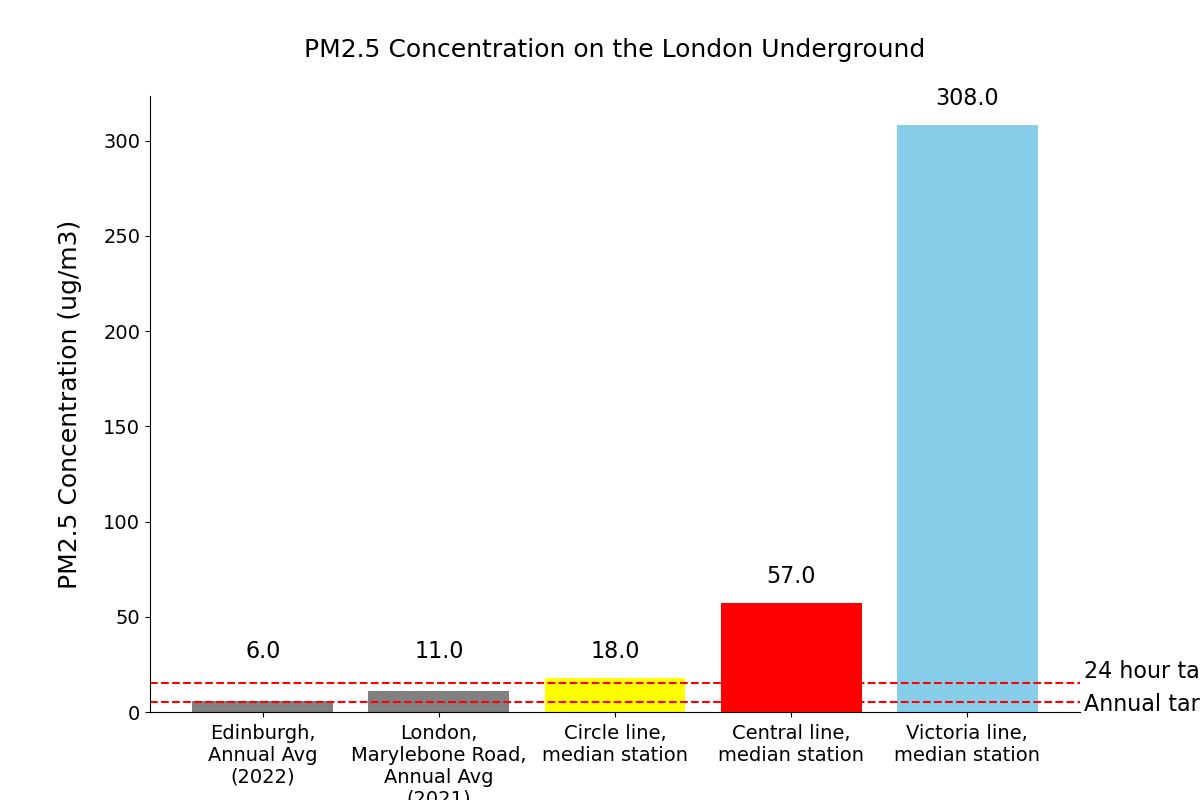
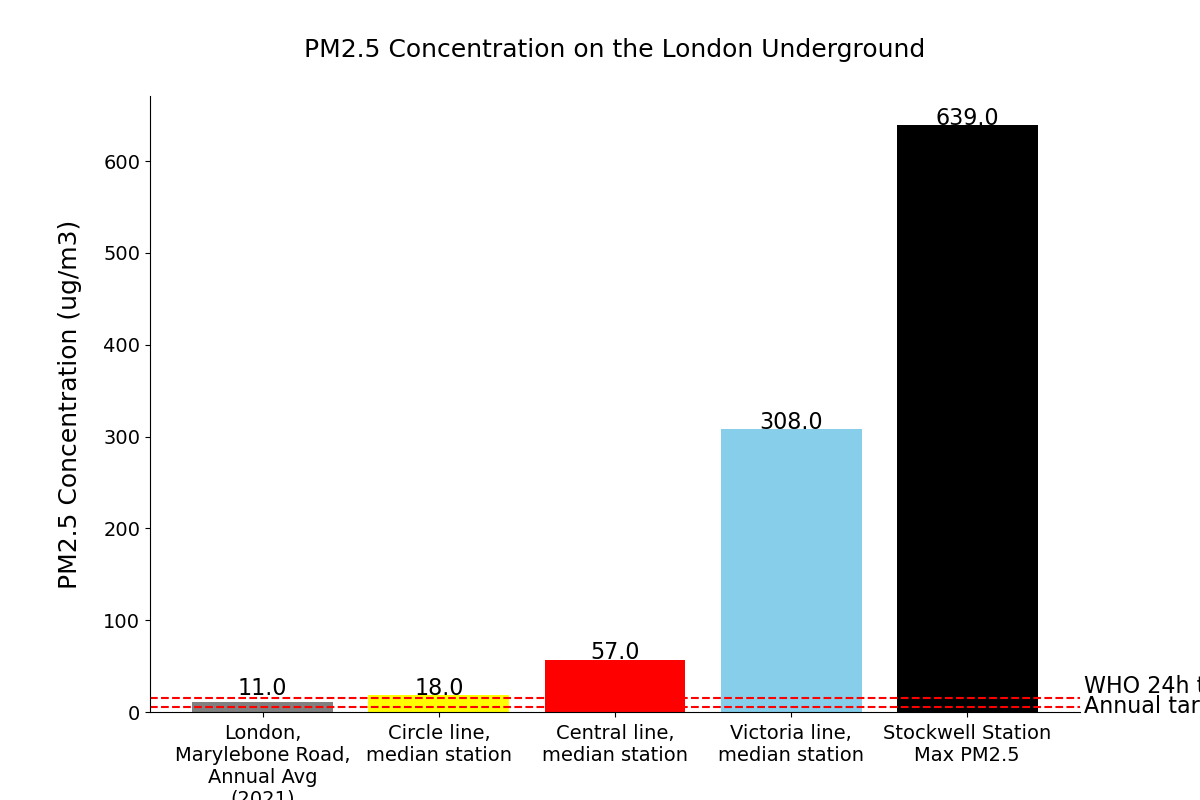
Changing ambient pm2.5 and minor cleaning up

diff --git a/images/plotter.py b/images/plotter.py
@@ -4,7 +4,7 @@ import matplotlib.pyplot as plt
 
 markers = {
     "Annual target": 5,  # https://www.who.int/news-room/feature-stories/detail/what-are-the-who-air-quality-guidelines
-    "24 hour target": 15,  # https://www.who.int/news-room/feature-stories/detail/what-are-the-who-air-quality-guidelines
+    "WHO 24h target": 15,  # https://www.who.int/news-room/feature-stories/detail/what-are-the-who-air-quality-guidelines
 }
 
 legend = ["WHO 2021 limits"]
@@ -24,8 +24,8 @@ station_medians = {
     "Central line,\nmedian station": (57.00, "red"),
     # "Hammersmith & City": (22.00, "pink"),
     "London,\nMarylebone Road,\nAnnual Avg\n(2021)": (11, "gray"),  # https://www.westminster.gov.uk/media/document/air-quality-report-2021
-    "Edinburgh,\nAnnual Avg\n(2022)": (6, "gray"),  # https://www.statista.com/statistics/1299076/pm25-emissions-selected-cities-in-united-kingdom/
-    # "Stockwell Station\nMax PM2.5": (639, "black"),
+    # "Edinburgh,\nAnnual Avg\n(2022)": (6, "gray"),  # https://www.statista.com/statistics/1299076/pm25-emissions-selected-cities-in-united-kingdom/
+    "Stockwell Station\nMax PM2.5": (639, "black"),
 }
 
 tube = {
@@ -116,7 +116,7 @@ def plot_bars():
         plt.axhline(y=marker_value, color='red', linestyle='--')
         plt.text(
             bars[-1].get_x() + bars[1].get_x() * 1.1 - bars[0].get_x(),
-            marker_value + (7 * -1 if i == 0 else 0),
+            marker_value + (11 * -1 if i == 0 else 0),
             f'{marker_label}',
             verticalalignment='bottom',
             fontsize=16,
@@ -153,5 +153,5 @@ def plot_bars():
     plt.show()
 
 if __name__ == "__main__":
-    # plot_bars()
-    pie_charts()
+    plot_bars()
+    # pie_charts()

diff --git a/api/convert.py b/api/convert.py
@@ -18,9 +18,7 @@ URBAN_BACKGROUND_ITEM_KEY = "Ambient Background"
 
 # All units in microgrammes per m3
 # Source [1]: https://www.sciencedirect.com/science/article/pii/S0160412019313649?via%3Dihub
-
-# TODO use the actual data instead of Options! From api.tube_map import Map
-#  Get every tube stop passed through, and average the data
+# Source [2]: TODO - this was from london air quality monitoring over the last year.
 
 AMBIENT_DATA = {
     AVERAGE_TUBE_ITEM_KEY: {
@@ -30,8 +28,8 @@ AMBIENT_DATA = {
     },
     URBAN_BACKGROUND_ITEM_KEY: {
         TYPE_KEY: AMBIENT_VAL,
-        MEAN_KEY: 19,  # [1]  TODO figure out what this was
-        MEDIAN_KEY: 14  # [1]
+        MEAN_KEY: 11,  # [2]  TODO figure out what this was
+        MEDIAN_KEY: 11  # [2]
     },
     ROADSIDE_ITEM_KEY: {
         TYPE_KEY: AMBIENT_VAL,

diff --git a/api/tube_map.py b/api/tube_map.py
@@ -212,13 +212,13 @@ class Map:
         journeytime = sum([2 for _ in range(len(path))])
 
         return walkdown + waittime + journeytime + walkup
-    
+
     def get_pm25_of_path(self, path, line_name):
         """ path is names
 
-        # TODO integrate this with minutes
-        # multiply walkdown + waittime 
-        # divide by total mins
+        - TODO integrate this with minutes
+            multiply walkdown + waittime 
+            divide by total mins
         """
         vals = []
 
